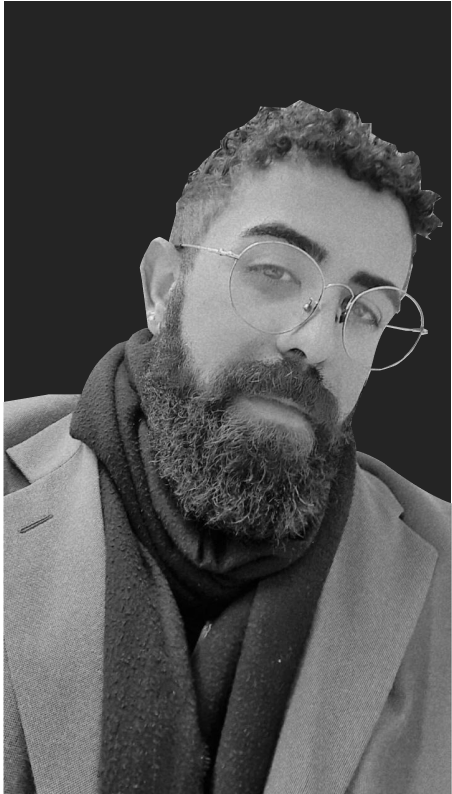
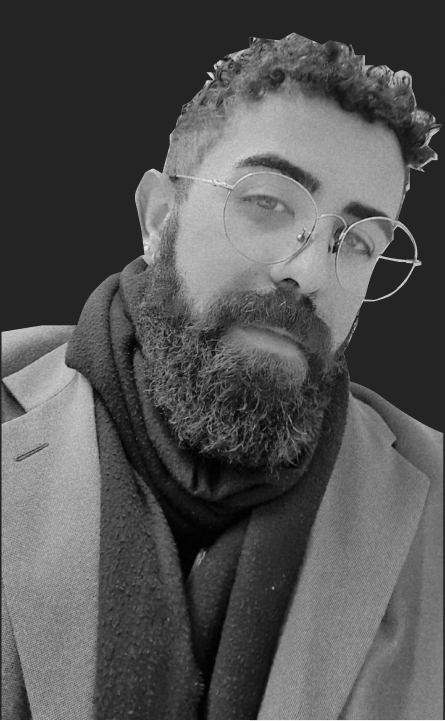
responsive tablet

diff --git a/sp-developer-portfolio/src/app/page.tsx b/sp-developer-portfolio/src/app/page.tsx
@@ -1,31 +1,31 @@
 import "./globals.css";
+import Image, { StaticImageData } from "next/image";
 
-import Image from "next/image";
+
 
 //COMPONENTS
-import Head from "../components/header"
-import Projects from "../components/projects/projects"
-import Footer from "../components/footer"
+import Head from "../components/header";
+import Projects from "../components/projects/projects";
+import Footer from "../components/footer";
 
-
-//header images import
-import gitIcon from "../images/icons/icon-github.svg";
-import linkedinIcon from "../images/icons/icon-linkedin.svg";
-import frontIcon from "../images/icons/icon-frontend-mentor.svg";
 
 //main images
 import profileDesktop from "../images/profileImage/profile-desktop.jpg";
+import profileTablet from "../images/profileImage/profile-tablet.jpg";
+import profileMobile from "../images/profileImage/profile-tablet.jpg";
+
+
 
 export default function Home() {
   return (
     <div className="h-screen">
-      <Head /> 
+      <Head />
 
       <main>
-        <div className="bg-[url(../images/bg/pattern-rings.svg)] bg-no-repeat bg-[top_0_left_-256px] py-[95px] mb-[136px]">
+        <div className="md:bg-[url(../images/bg/pattern-rings.svg)] bg-no-repeat md:bg-[top_0_left_-256px] lg:bg-[top_0_left_-100px] md:py-[58px] lg:py-[95px] md:mb-[14px] lg:mb-[136px]">
           <section className="container mx-auto center relative">
-            <h1 className="text-xl text-White mb-[43px] max-w-[709px]">
-              Nice to meet you! I'm{" "}              
+            <h1 className=" text-White mb-[43px] md:text-[9rem]/[9rem] md:tracking-[-0.25625rem] md:max-w-[445px] lg:text-xl lg:max-w-[709px]">
+              Nice to <br className="lg:hidden"></br>meet you! I'm{" "}
               <span className="underline decoration-Green">Matheus</span>.
             </h1>
             <p className="text-Grey text-body max-w-[445px] mb-[66px]">
@@ -42,13 +42,15 @@ export default function Home() {
             </div>
 
             {/* Adicionar imagem profile e bg-pattern pelo after */}
-            <div className="absolute right-0 top-[-198px] z-[-1] after:content-[''] after:w-[129px] after:h-[129px] after:absolute after:bottom-[70px] after:left-[-64px] after:bg-[url(../images/bg/pattern-circle.svg)] ">
-              <Image
-                src={profileDesktop}
-                width={445}
-                height={720}
-                alt="Profile png"
-              />
+            <div className={`trasition-all
+            absolute bg-no-repeat before:content-['']  before:z-[-1] md:before:bg-profileTablet md:before:w-[322px] md:before:h-[600px]
+            md:left-[417px] md:top-[-155px] 
+            lg:right-[445px] lg:top-[-198px] lg:before:w-[445px] lg:before:h-[720px] before:absolute 
+            lg:before:bg-profileDesktop  after:content-[''] after:w-[129px] after:h-[129px] after:absolute after:z-1 
+            md:after:top-[471px] md:after:left-[256px]
+            lg:after:top-[521px] lg:after:left-[-64px] after:bg-circle `}>
+              
+
             </div>
           </section>
         </div>
@@ -82,7 +84,7 @@ export default function Home() {
           </div>
         </div>
 
-        <Projects />        
+        <Projects />
       </main>
       <Footer />
     </div>

diff --git a/sp-developer-portfolio/src/components/footer.tsx b/sp-developer-portfolio/src/components/footer.tsx
@@ -17,7 +17,7 @@ export default function Footer() {
           </label>
 
           <label className="w-full h-[43px] pb-[2rem] border-b-2 border-[#979797] focus-within:border-Green">
-            <input type="email" name="email" className="text-form text-White bg-transparent w-full focus:ring-0 border-0 uppercase" id="emailInput" required />
+            <input type="email" name="email" placeholder="email" className="text-form text-White bg-transparent w-full focus:ring-0 border-0 uppercase" id="emailInput" required />
           </label>
 
           <label className="w-full pb-[2rem] h-[107px] border-b-2 border-[#979797] focus-within:border-Green">
@@ -27,12 +27,13 @@ export default function Footer() {
               cols={30}
               rows={3}
               className="text-form text-White bg-transparent w-full focus:ring-0 border-0 uppercase"
+              placeholder="message" 
             ></textarea>
           </label>
 
           <div className="flex border-b-2 border-b-Green pb-5 w-content">
             <button
-              className="text-White  text-[2rem]/[3.25rem] uppercase tracking-[0.28625rem]"
+              className="text-White  text-[2rem]/[3.25rem] uppercase tracking-[0.28625rem] cursor-pointer hover:text-Green"
               type="submit"
               value="submit"
             >

diff --git a/sp-developer-portfolio/src/components/header.tsx b/sp-developer-portfolio/src/components/header.tsx
@@ -10,26 +10,25 @@ export default function Head() {
  return(
   <div className="container mx-auto center py-16 flex justify-between relative">
   <header>
-    <p className="text-White text-[4rem]/[4rem] font-bold">xTirian</p>
+    <p className="text-White text-[3rem]/[4rem] md:text-[4rem]/[4rem] font-bold">xTirian</p>
   </header>
   <nav className="mr-[29.51px]">
     <ul className="flex gap-[4rem]  ">
       <li>
         <a target="_blank" href="https://github.com/xtirian">
-          <Image src={gitIcon} width={25} height={24} alt="gitIcon" />
+          <Image src={gitIcon} className="w-[19px] h-[19px] md:w-[24px] md:h-[25px]" alt="gitIcon" />
         </a>
       </li>
       <li>
         <a target="_blank" href="https://www.frontendmentor.io/profile/xtirian">
-          <Image src={frontIcon} width={25} height={24} alt="frontIcon" />
+          <Image src={frontIcon} className="w-[19px] h-[19px] md:w-[24px] md:h-[25px]" alt="frontIcon" />
         </a>
       </li>
       <li>
         <a target="_blank" href="https://www.linkedin.com/in/mf-cunha/">
           <Image
             src={linkedinIcon}
-            width={25}
-            height={24}
+            className="w-[19px] h-[19px] md:w-[24px] md:h-[25px]"
             alt="linkedinIcon"
           />
         </a>

diff --git a/sp-developer-portfolio/tailwind.config.js b/sp-developer-portfolio/tailwind.config.js
@@ -21,6 +21,10 @@ module.exports = {
         'project5' : "url(../images/projects/thumbnail-project5.webp)",
         'project6' : "url(../images/projects/thumbnail-project6.webp)",
         "rings" : "url(../images/bg/pattern-rings.svg)",
+        "circle" : "url(../images/bg/pattern-circle.svg)",
+        "profileDesktop" : "url(../images/profileImage/profile-desktop.jpg)",
+        "profileTablet" : "url(../images/profileImage/profile-tablet.jpg)",
+        "profileMobile" : "url(../images/profileImage/profile-desktop.jpg)",
 
       }
     },
